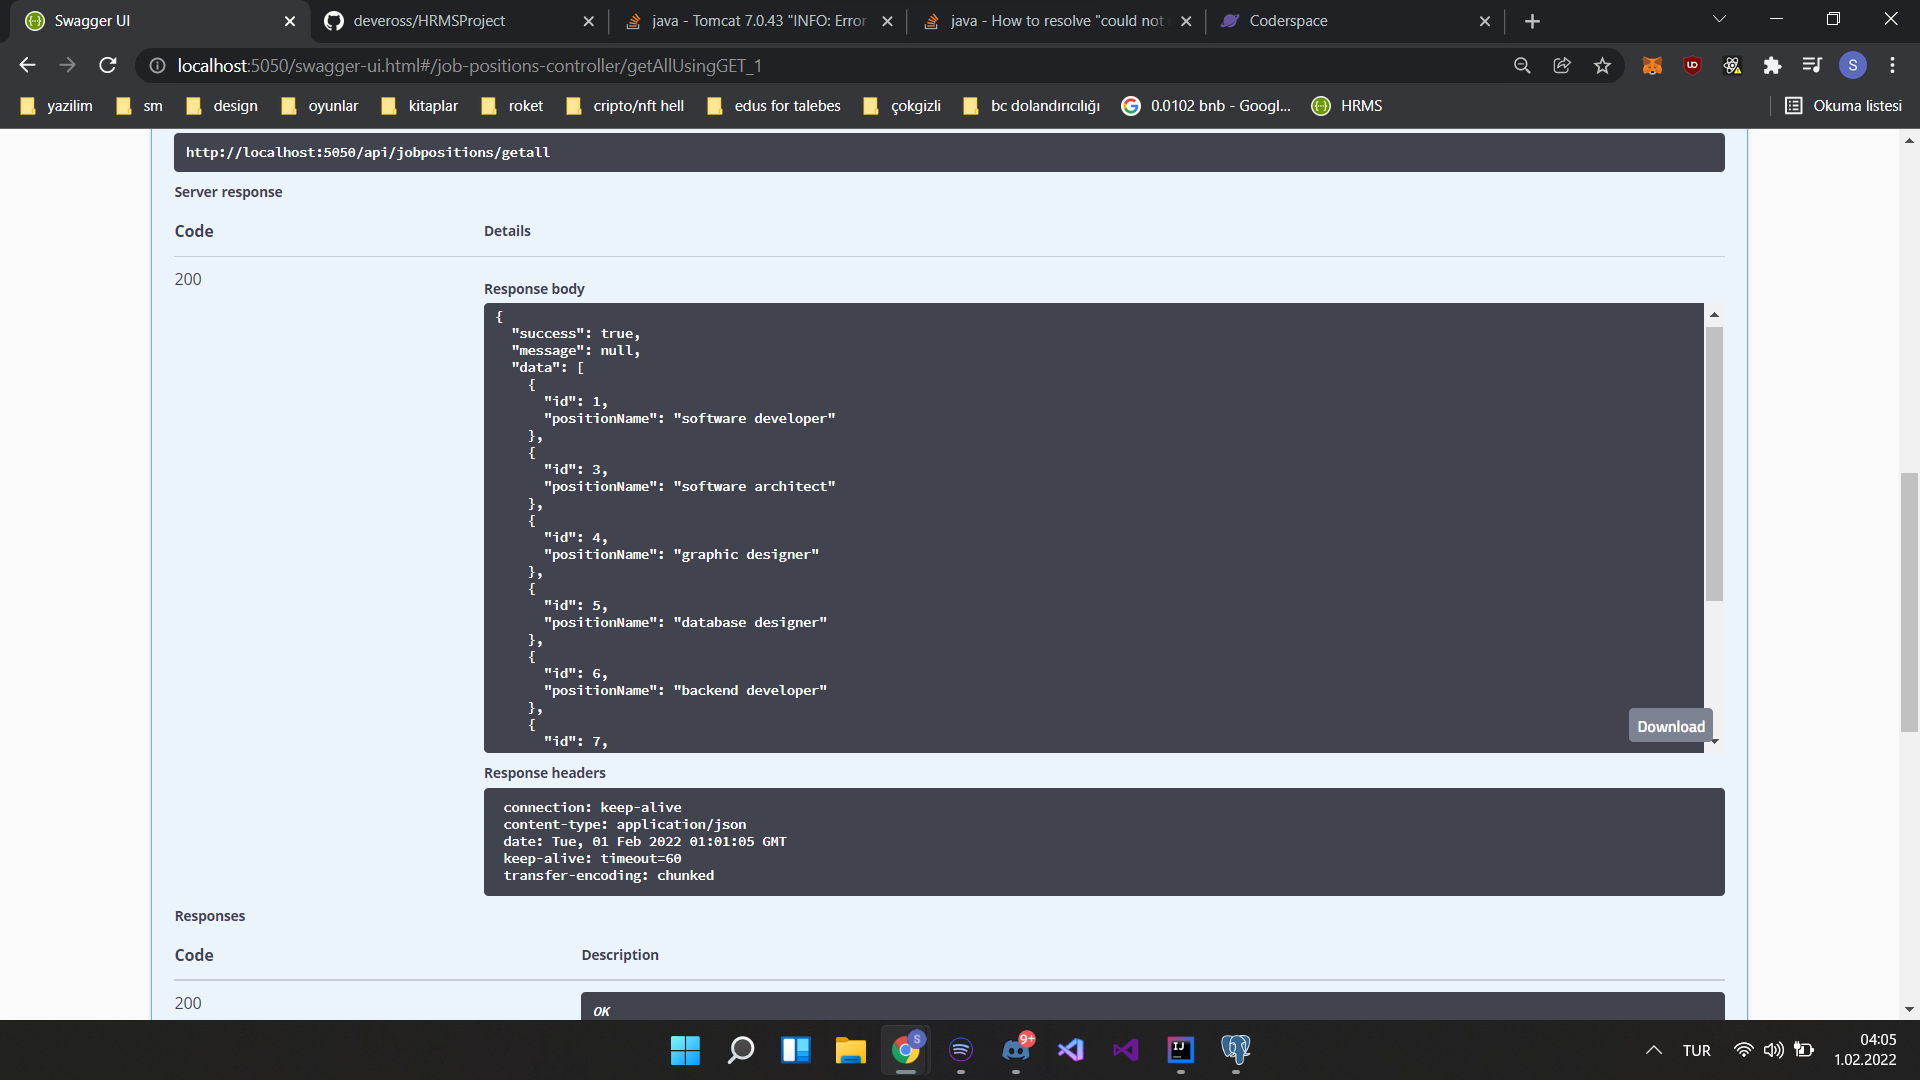
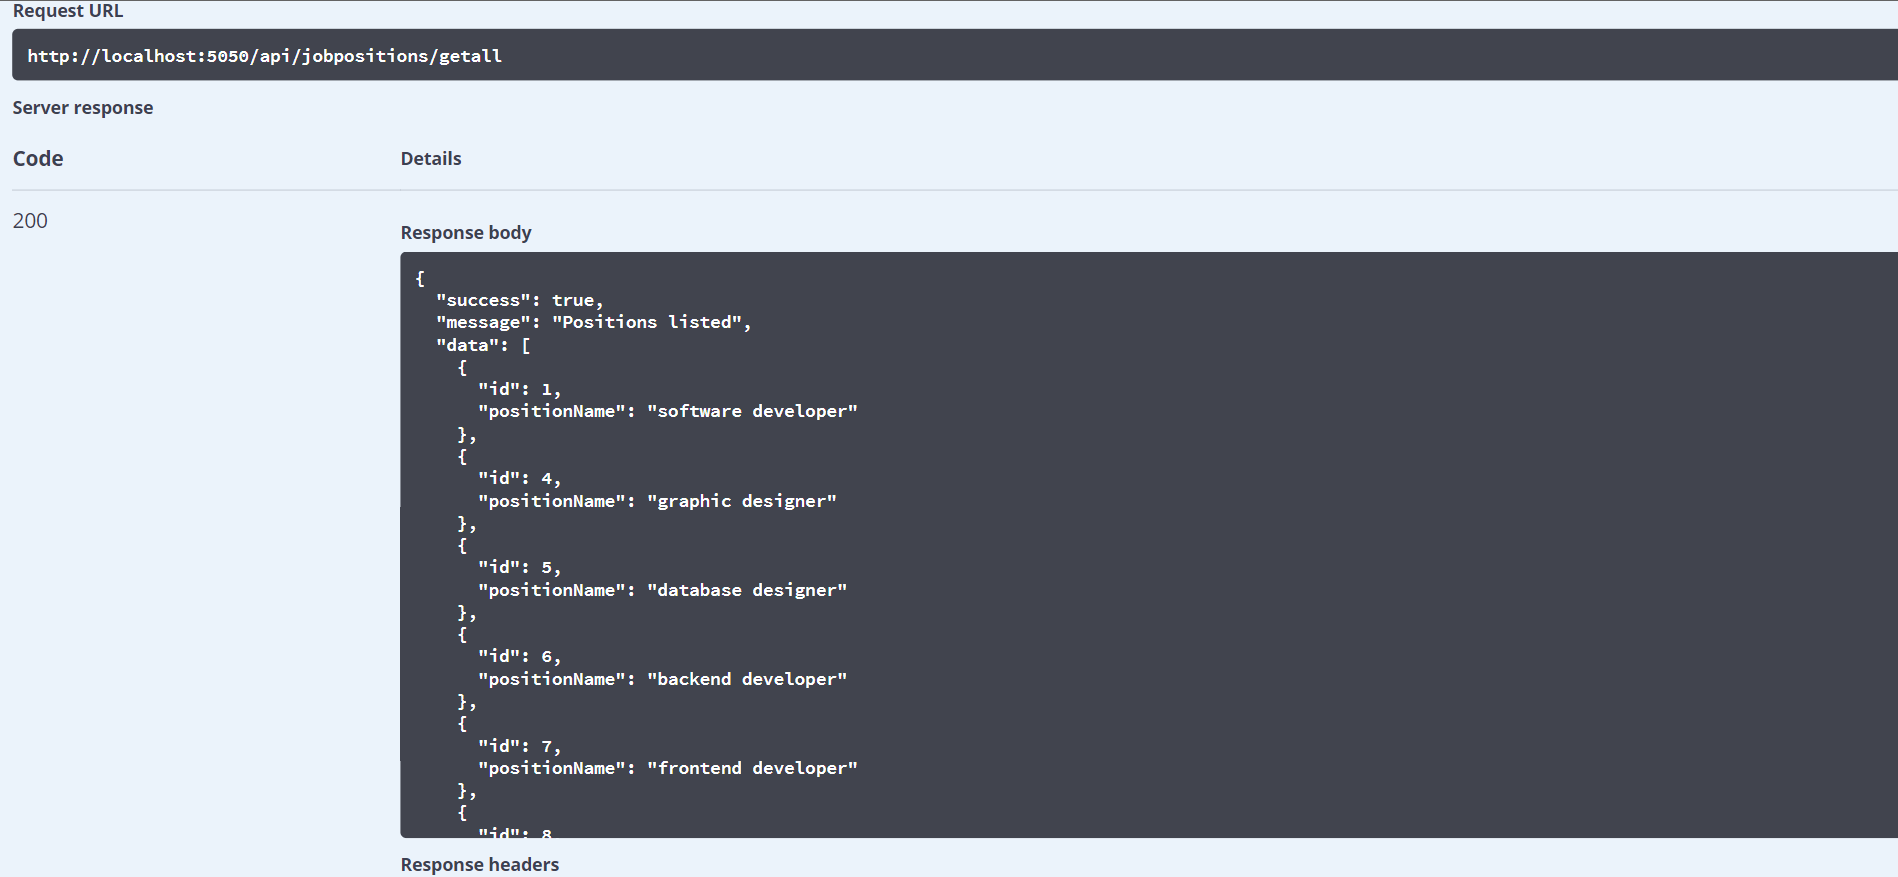
last updates

diff --git a/src/main/java/kodlamaio/humanResourcesProject/core/Security/Mernis/KPSPublicSoapStub.java b/src/main/java/kodlamaio/humanResourcesProject/core/Security/Mernis/KPSPublicSoapStub.java
@@ -1,0 +1,125 @@
+package kodlamaio.humanResourcesProject.core.Security.Mernis;
+
+public class KPSPublicSoapStub extends org.apache.axis.client.Stub implements KPSPublicSoap {
+    private java.util.Vector cachedSerClasses = new java.util.Vector();
+    private java.util.Vector cachedSerQNames = new java.util.Vector();
+    private java.util.Vector cachedSerFactories = new java.util.Vector();
+    private java.util.Vector cachedDeserFactories = new java.util.Vector();
+
+    static org.apache.axis.description.OperationDesc [] _operations;
+
+    static {
+        _operations = new org.apache.axis.description.OperationDesc[1];
+        _initOperationDesc1();
+    }
+
+    private static void _initOperationDesc1(){
+        org.apache.axis.description.OperationDesc oper;
+        org.apache.axis.description.ParameterDesc param;
+        oper = new org.apache.axis.description.OperationDesc();
+        oper.setName("TCKimlikNoDogrula");
+        param = new org.apache.axis.description.ParameterDesc(new javax.xml.namespace.QName("http://tckimlik.nvi.gov.tr/WS", "TCKimlikNo"), org.apache.axis.description.ParameterDesc.IN, new javax.xml.namespace.QName("http://www.w3.org/2001/XMLSchema", "long"), long.class, false, false);
+        oper.addParameter(param);
+        param = new org.apache.axis.description.ParameterDesc(new javax.xml.namespace.QName("http://tckimlik.nvi.gov.tr/WS", "Ad"), org.apache.axis.description.ParameterDesc.IN, new javax.xml.namespace.QName("http://www.w3.org/2001/XMLSchema", "string"), java.lang.String.class, false, false);
+        param.setOmittable(true);
+        oper.addParameter(param);
+        param = new org.apache.axis.description.ParameterDesc(new javax.xml.namespace.QName("http://tckimlik.nvi.gov.tr/WS", "Soyad"), org.apache.axis.description.ParameterDesc.IN, new javax.xml.namespace.QName("http://www.w3.org/2001/XMLSchema", "string"), java.lang.String.class, false, false);
+        param.setOmittable(true);
+        oper.addParameter(param);
+        param = new org.apache.axis.description.ParameterDesc(new javax.xml.namespace.QName("http://tckimlik.nvi.gov.tr/WS", "DogumYili"), org.apache.axis.description.ParameterDesc.IN, new javax.xml.namespace.QName("http://www.w3.org/2001/XMLSchema", "int"), int.class, false, false);
+        oper.addParameter(param);
+        oper.setReturnType(new javax.xml.namespace.QName("http://www.w3.org/2001/XMLSchema", "boolean"));
+        oper.setReturnClass(boolean.class);
+        oper.setReturnQName(new javax.xml.namespace.QName("http://tckimlik.nvi.gov.tr/WS", "TCKimlikNoDogrulaResult"));
+        oper.setStyle(org.apache.axis.constants.Style.WRAPPED);
+        oper.setUse(org.apache.axis.constants.Use.LITERAL);
+        _operations[0] = oper;
+
+    }
+
+    public KPSPublicSoapStub() throws org.apache.axis.AxisFault {
+         this(null);
+    }
+
+    public KPSPublicSoapStub(java.net.URL endpointURL, javax.xml.rpc.Service service) throws org.apache.axis.AxisFault {
+         this(service);
+         super.cachedEndpoint = endpointURL;
+    }
+
+    public KPSPublicSoapStub(javax.xml.rpc.Service service) throws org.apache.axis.AxisFault {
+        if (service == null) {
+            super.service = new org.apache.axis.client.Service();
+        } else {
+            super.service = service;
+        }
+        ((org.apache.axis.client.Service)super.service).setTypeMappingVersion("1.2");
+    }
+
+    protected org.apache.axis.client.Call createCall() throws java.rmi.RemoteException {
+        try {
+            org.apache.axis.client.Call _call = super._createCall();
+            if (super.maintainSessionSet) {
+                _call.setMaintainSession(super.maintainSession);
+            }
+            if (super.cachedUsername != null) {
+                _call.setUsername(super.cachedUsername);
+            }
+            if (super.cachedPassword != null) {
+                _call.setPassword(super.cachedPassword);
+            }
+            if (super.cachedEndpoint != null) {
+                _call.setTargetEndpointAddress(super.cachedEndpoint);
+            }
+            if (super.cachedTimeout != null) {
+                _call.setTimeout(super.cachedTimeout);
+            }
+            if (super.cachedPortName != null) {
+                _call.setPortName(super.cachedPortName);
+            }
+            java.util.Enumeration keys = super.cachedProperties.keys();
+            while (keys.hasMoreElements()) {
+                java.lang.String key = (java.lang.String) keys.nextElement();
+                _call.setProperty(key, super.cachedProperties.get(key));
+            }
+            return _call;
+        }
+        catch (java.lang.Throwable _t) {
+            throw new org.apache.axis.AxisFault("Failure trying to get the Call object", _t);
+        }
+    }
+
+    public boolean TCKimlikNoDogrula(long TCKimlikNo, java.lang.String ad, java.lang.String soyad, int dogumYili) throws java.rmi.RemoteException {
+        if (super.cachedEndpoint == null) {
+            throw new org.apache.axis.NoEndPointException();
+        }
+        org.apache.axis.client.Call _call = createCall();
+        _call.setOperation(_operations[0]);
+        _call.setUseSOAPAction(true);
+        _call.setSOAPActionURI("http://tckimlik.nvi.gov.tr/WS/TCKimlikNoDogrula");
+        _call.setEncodingStyle(null);
+        _call.setProperty(org.apache.axis.client.Call.SEND_TYPE_ATTR, Boolean.FALSE);
+        _call.setProperty(org.apache.axis.AxisEngine.PROP_DOMULTIREFS, Boolean.FALSE);
+        _call.setSOAPVersion(org.apache.axis.soap.SOAPConstants.SOAP11_CONSTANTS);
+        _call.setOperationName(new javax.xml.namespace.QName("http://tckimlik.nvi.gov.tr/WS", "TCKimlikNoDogrula"));
+
+        setRequestHeaders(_call);
+        setAttachments(_call);
+ try {        java.lang.Object _resp = _call.invoke(new java.lang.Object[] {new java.lang.Long(TCKimlikNo), ad, soyad, new java.lang.Integer(dogumYili)});
+
+        if (_resp instanceof java.rmi.RemoteException) {
+            throw (java.rmi.RemoteException)_resp;
+        }
+        else {
+            extractAttachments(_call);
+            try {
+                return ((java.lang.Boolean) _resp).booleanValue();
+            } catch (java.lang.Exception _exception) {
+                return ((java.lang.Boolean) org.apache.axis.utils.JavaUtils.convert(_resp, boolean.class)).booleanValue();
+            }
+        }
+  } catch (org.apache.axis.AxisFault axisFaultException) {
+  throw axisFaultException;
+}
+    }
+
+}

diff --git a/src/main/java/kodlamaio/humanResourcesProject/core/Security/Mernis/KPSPublicLocator.java b/src/main/java/kodlamaio/humanResourcesProject/core/Security/Mernis/KPSPublicLocator.java
@@ -1,0 +1,135 @@
+package kodlamaio.humanResourcesProject.core.Security.Mernis;
+
+public class KPSPublicLocator extends org.apache.axis.client.Service implements KPSPublic {
+
+    public KPSPublicLocator() {
+    }
+
+
+    public KPSPublicLocator(org.apache.axis.EngineConfiguration config) {
+        super(config);
+    }
+
+    public KPSPublicLocator(java.lang.String wsdlLoc, javax.xml.namespace.QName sName) throws javax.xml.rpc.ServiceException {
+        super(wsdlLoc, sName);
+    }
+
+    // Use to get a proxy class for KPSPublicSoap
+    private java.lang.String KPSPublicSoap_address = "https://tckimlik.nvi.gov.tr/Service/KPSPublic.asmx";
+
+    public java.lang.String getKPSPublicSoapAddress() {
+        return KPSPublicSoap_address;
+    }
+
+    // The WSDD service name defaults to the port name.
+    private java.lang.String KPSPublicSoapWSDDServiceName = "KPSPublicSoap";
+
+    public java.lang.String getKPSPublicSoapWSDDServiceName() {
+        return KPSPublicSoapWSDDServiceName;
+    }
+
+    public void setKPSPublicSoapWSDDServiceName(java.lang.String name) {
+        KPSPublicSoapWSDDServiceName = name;
+    }
+
+    public KPSPublicSoap getKPSPublicSoap() throws javax.xml.rpc.ServiceException {
+       java.net.URL endpoint;
+        try {
+            endpoint = new java.net.URL(KPSPublicSoap_address);
+        }
+        catch (java.net.MalformedURLException e) {
+            throw new javax.xml.rpc.ServiceException(e);
+        }
+        return getKPSPublicSoap(endpoint);
+    }
+
+    public KPSPublicSoap getKPSPublicSoap(java.net.URL portAddress) throws javax.xml.rpc.ServiceException {
+        try {
+            KPSPublicSoapStub _stub = new KPSPublicSoapStub(portAddress, this);
+            _stub.setPortName(getKPSPublicSoapWSDDServiceName());
+            return _stub;
+        }
+        catch (org.apache.axis.AxisFault e) {
+            return null;
+        }
+    }
+
+    public void setKPSPublicSoapEndpointAddress(java.lang.String address) {
+        KPSPublicSoap_address = address;
+    }
+
+    /**
+     * For the given interface, get the stub implementation.
+     * If this service has no port for the given interface,
+     * then ServiceException is thrown.
+     */
+    public java.rmi.Remote getPort(Class serviceEndpointInterface) throws javax.xml.rpc.ServiceException {
+        try {
+            if (KPSPublicSoap.class.isAssignableFrom(serviceEndpointInterface)) {
+                KPSPublicSoapStub _stub = new KPSPublicSoapStub(new java.net.URL(KPSPublicSoap_address), this);
+                _stub.setPortName(getKPSPublicSoapWSDDServiceName());
+                return _stub;
+            }
+        }
+        catch (java.lang.Throwable t) {
+            throw new javax.xml.rpc.ServiceException(t);
+        }
+        throw new javax.xml.rpc.ServiceException("There is no stub implementation for the interface:  " + (serviceEndpointInterface == null ? "null" : serviceEndpointInterface.getName()));
+    }
+
+    /**
+     * For the given interface, get the stub implementation.
+     * If this service has no port for the given interface,
+     * then ServiceException is thrown.
+     */
+    public java.rmi.Remote getPort(javax.xml.namespace.QName portName, Class serviceEndpointInterface) throws javax.xml.rpc.ServiceException {
+        if (portName == null) {
+            return getPort(serviceEndpointInterface);
+        }
+        java.lang.String inputPortName = portName.getLocalPart();
+        if ("KPSPublicSoap".equals(inputPortName)) {
+            return getKPSPublicSoap();
+        }
+        else  {
+            java.rmi.Remote _stub = getPort(serviceEndpointInterface);
+            ((org.apache.axis.client.Stub) _stub).setPortName(portName);
+            return _stub;
+        }
+    }
+
+    public javax.xml.namespace.QName getServiceName() {
+        return new javax.xml.namespace.QName("http://tckimlik.nvi.gov.tr/WS", "KPSPublic");
+    }
+
+    private java.util.HashSet ports = null;
+
+    public java.util.Iterator getPorts() {
+        if (ports == null) {
+            ports = new java.util.HashSet();
+            ports.add(new javax.xml.namespace.QName("http://tckimlik.nvi.gov.tr/WS", "KPSPublicSoap"));
+        }
+        return ports.iterator();
+    }
+
+    /**
+    * Set the endpoint address for the specified port name.
+    */
+    public void setEndpointAddress(java.lang.String portName, java.lang.String address) throws javax.xml.rpc.ServiceException {
+        
+if ("KPSPublicSoap".equals(portName)) {
+            setKPSPublicSoapEndpointAddress(address);
+        }
+        else 
+{ // Unknown Port Name
+            throw new javax.xml.rpc.ServiceException(" Cannot set Endpoint Address for Unknown Port" + portName);
+        }
+    }
+
+    /**
+    * Set the endpoint address for the specified port name.
+    */
+    public void setEndpointAddress(javax.xml.namespace.QName portName, java.lang.String address) throws javax.xml.rpc.ServiceException {
+        setEndpointAddress(portName.getLocalPart(), address);
+    }
+
+}

diff --git a/src/main/java/kodlamaio/humanResourcesProject/core/Security/Mernis/KPSPublicSoapProxy.java b/src/main/java/kodlamaio/humanResourcesProject/core/Security/Mernis/KPSPublicSoapProxy.java
@@ -1,0 +1,54 @@
+package kodlamaio.humanResourcesProject.core.Security.Mernis;
+
+public class KPSPublicSoapProxy implements KPSPublicSoap {
+  private String _endpoint = null;
+  private KPSPublicSoap kPSPublicSoap = null;
+  
+  public KPSPublicSoapProxy() {
+    _initKPSPublicSoapProxy();
+  }
+  
+  public KPSPublicSoapProxy(String endpoint) {
+    _endpoint = endpoint;
+    _initKPSPublicSoapProxy();
+  }
+  
+  private void _initKPSPublicSoapProxy() {
+    try {
+      kPSPublicSoap = (new KPSPublicLocator()).getKPSPublicSoap();
+      if (kPSPublicSoap != null) {
+        if (_endpoint != null)
+          ((javax.xml.rpc.Stub)kPSPublicSoap)._setProperty("javax.xml.rpc.service.endpoint.address", _endpoint);
+        else
+          _endpoint = (String)((javax.xml.rpc.Stub)kPSPublicSoap)._getProperty("javax.xml.rpc.service.endpoint.address");
+      }
+      
+    }
+    catch (javax.xml.rpc.ServiceException serviceException) {}
+  }
+  
+  public String getEndpoint() {
+    return _endpoint;
+  }
+  
+  public void setEndpoint(String endpoint) {
+    _endpoint = endpoint;
+    if (kPSPublicSoap != null)
+      ((javax.xml.rpc.Stub)kPSPublicSoap)._setProperty("javax.xml.rpc.service.endpoint.address", _endpoint);
+    
+  }
+  
+  public KPSPublicSoap getKPSPublicSoap() {
+    if (kPSPublicSoap == null)
+      _initKPSPublicSoapProxy();
+    return kPSPublicSoap;
+  }
+  
+  public boolean TCKimlikNoDogrula(long TCKimlikNo, java.lang.String ad, java.lang.String soyad, int dogumYili) throws java.rmi.RemoteException{
+    if (kPSPublicSoap == null)
+      _initKPSPublicSoapProxy();
+    return kPSPublicSoap.TCKimlikNoDogrula(TCKimlikNo, ad, soyad, dogumYili);
+  }
+  
+  
+}

diff --git a/src/main/java/kodlamaio/humanResourcesProject/business/concretes/JobPositionManager.java b/src/main/java/kodlamaio/humanResourcesProject/business/concretes/JobPositionManager.java
@@ -47,7 +47,7 @@ public class JobPositionManager implements IJobPositionService {
 
     @Override
     public DataResult<List<JobPosition>> getAll() {
-        return new SuccessDataResult<List<JobPosition>>(_jobPositionDao.findAll());
+        return new SuccessDataResult<List<JobPosition>>(_jobPositionDao.findAll(),"Positions listed");
     }
 
     private Result checkJobPositionName(JobPosition jobPosition){
@@ -56,5 +56,11 @@ public class JobPositionManager implements IJobPositionService {
             return new SuccessResult();
         }
         return new ErrorResult("this position already exist");
+    }
+
+    @Override
+    public Result delete(JobPosition jobPosition){
+        _jobPositionDao.delete(jobPosition);
+        return new SuccessResult();
     }
 }

diff --git a/src/main/java/kodlamaio/humanResourcesProject/business/concretes/JobAdvertisementManager.java b/src/main/java/kodlamaio/humanResourcesProject/business/concretes/JobAdvertisementManager.java
@@ -4,10 +4,14 @@ import kodlamaio.humanResourcesProject.business.abstracts.IJobAdvertisementServi
 import kodlamaio.humanResourcesProject.core.utilities.results.DataResult;
 import kodlamaio.humanResourcesProject.core.utilities.results.Result;
 import kodlamaio.humanResourcesProject.entities.concretes.JobAdvertisement;
+import org.springframework.stereotype.Service;
 
 import java.util.List;
 
+@Service
 public class JobAdvertisementManager implements IJobAdvertisementService {
+
+
     @Override
     public Result add(JobAdvertisement jobAdvertisement) {
         return null;

diff --git a/src/main/java/kodlamaio/humanResourcesProject/core/Security/Mernis/KPSPublic.java b/src/main/java/kodlamaio/humanResourcesProject/core/Security/Mernis/KPSPublic.java
@@ -1,0 +1,9 @@
+package kodlamaio.humanResourcesProject.core.Security.Mernis;
+
+public interface KPSPublic extends javax.xml.rpc.Service {
+    public java.lang.String getKPSPublicSoapAddress();
+
+    public KPSPublicSoap getKPSPublicSoap() throws javax.xml.rpc.ServiceException;
+
+    public KPSPublicSoap getKPSPublicSoap(java.net.URL portAddress) throws javax.xml.rpc.ServiceException;
+}

diff --git a/src/main/java/kodlamaio/humanResourcesProject/core/Security/Mernis/KPSPublicSoap.java b/src/main/java/kodlamaio/humanResourcesProject/core/Security/Mernis/KPSPublicSoap.java
@@ -1,0 +1,5 @@
+package kodlamaio.humanResourcesProject.core.Security.Mernis;
+
+public interface KPSPublicSoap extends java.rmi.Remote {
+    public boolean TCKimlikNoDogrula(long TCKimlikNo, java.lang.String ad, java.lang.String soyad, int dogumYili) throws java.rmi.RemoteException;
+}

diff --git a/src/main/java/kodlamaio/humanResourcesProject/api/JobPositionsController.java b/src/main/java/kodlamaio/humanResourcesProject/api/JobPositionsController.java
@@ -31,4 +31,8 @@ public class JobPositionsController {
         return _jobPositionService.add(jobPosition);
     }
 
+    @PostMapping("delete")
+    public Result delete(@RequestBody JobPosition jobPosition){
+        return _jobPositionService.delete(jobPosition);
+    }
 }

diff --git a/src/main/java/kodlamaio/humanResourcesProject/business/abstracts/IJobPositionService.java b/src/main/java/kodlamaio/humanResourcesProject/business/abstracts/IJobPositionService.java
@@ -9,6 +9,7 @@ import java.util.List;
 public interface IJobPositionService {
 
     Result add(JobPosition jobPosition);
+    Result delete(JobPosition jobPosition);
     DataResult<List<JobPosition>> getAll();
 
 }
